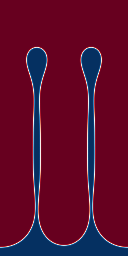
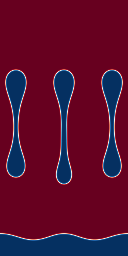
fem

Changed region(s): [[0.0, 0.1562, 1.0, 0.9688], [0.4062, 0.25, 0.5938, 0.7188]]

diff --git a/fem/npy_to_png.py b/fem/npy_to_png.py
@@ -2,7 +2,7 @@ import numpy as np
 import matplotlib.pyplot as plt
 
 # Carica il file allungato
-surf = np.load('/scratch/fiorello/data_test/pores_deep_npy/00/surf_40.0.npy')
+surf = np.load('/scratch/fiorello/data_test/pores_deep_npy/01/surf_40.0.npy')
 print("Forma:", surf.shape)
 
 # Normalizza tra 0 e 1 per il salvataggio come immagine
